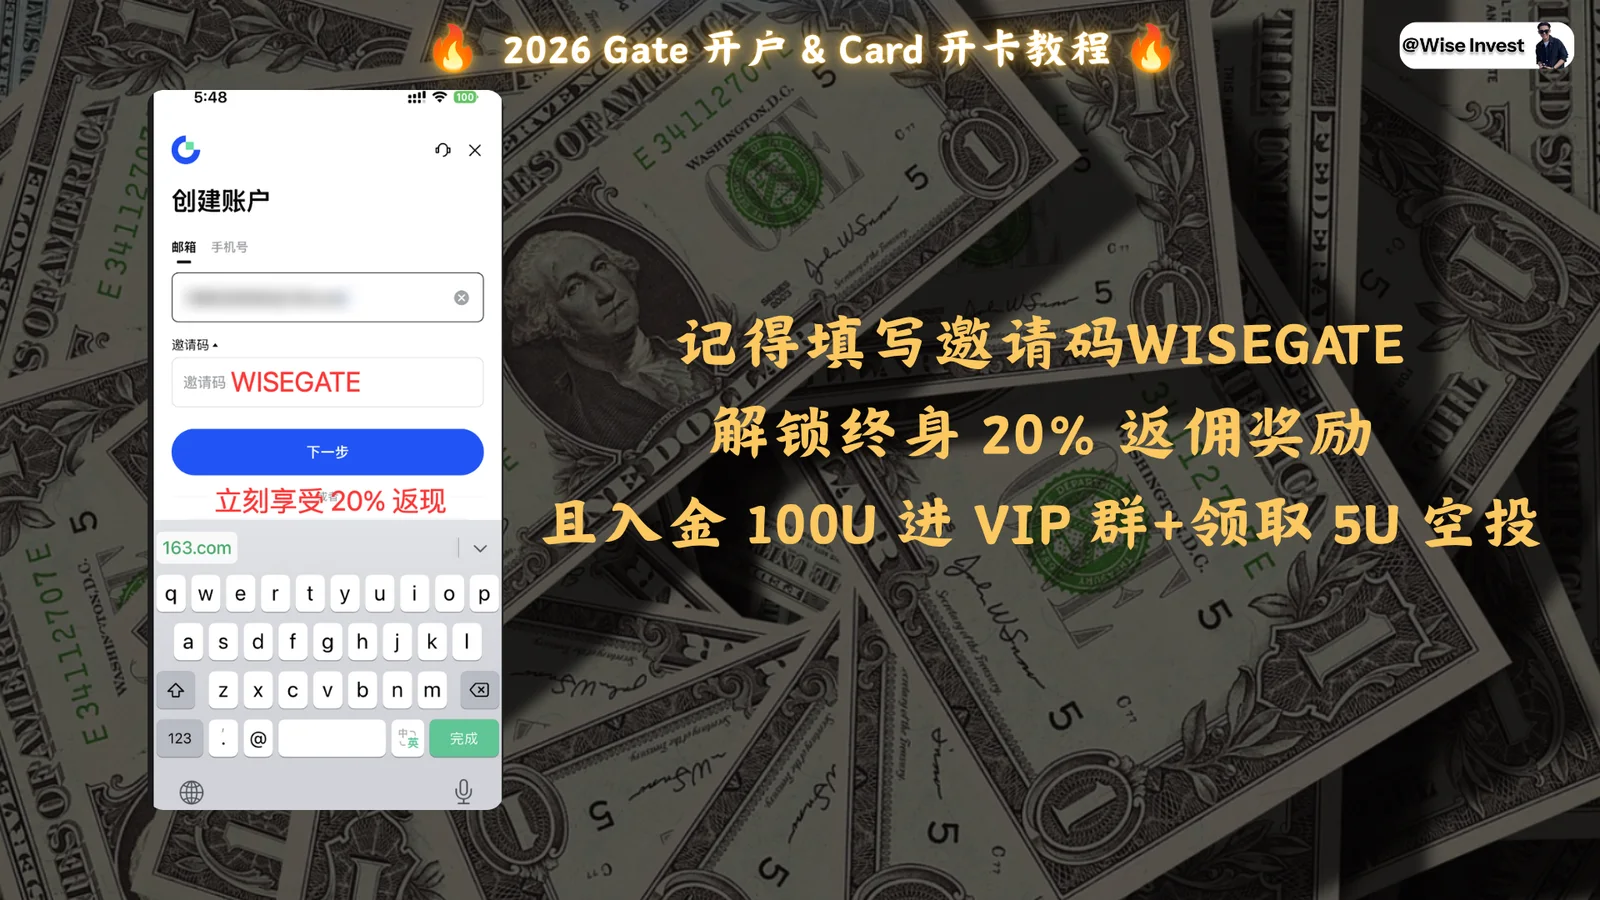
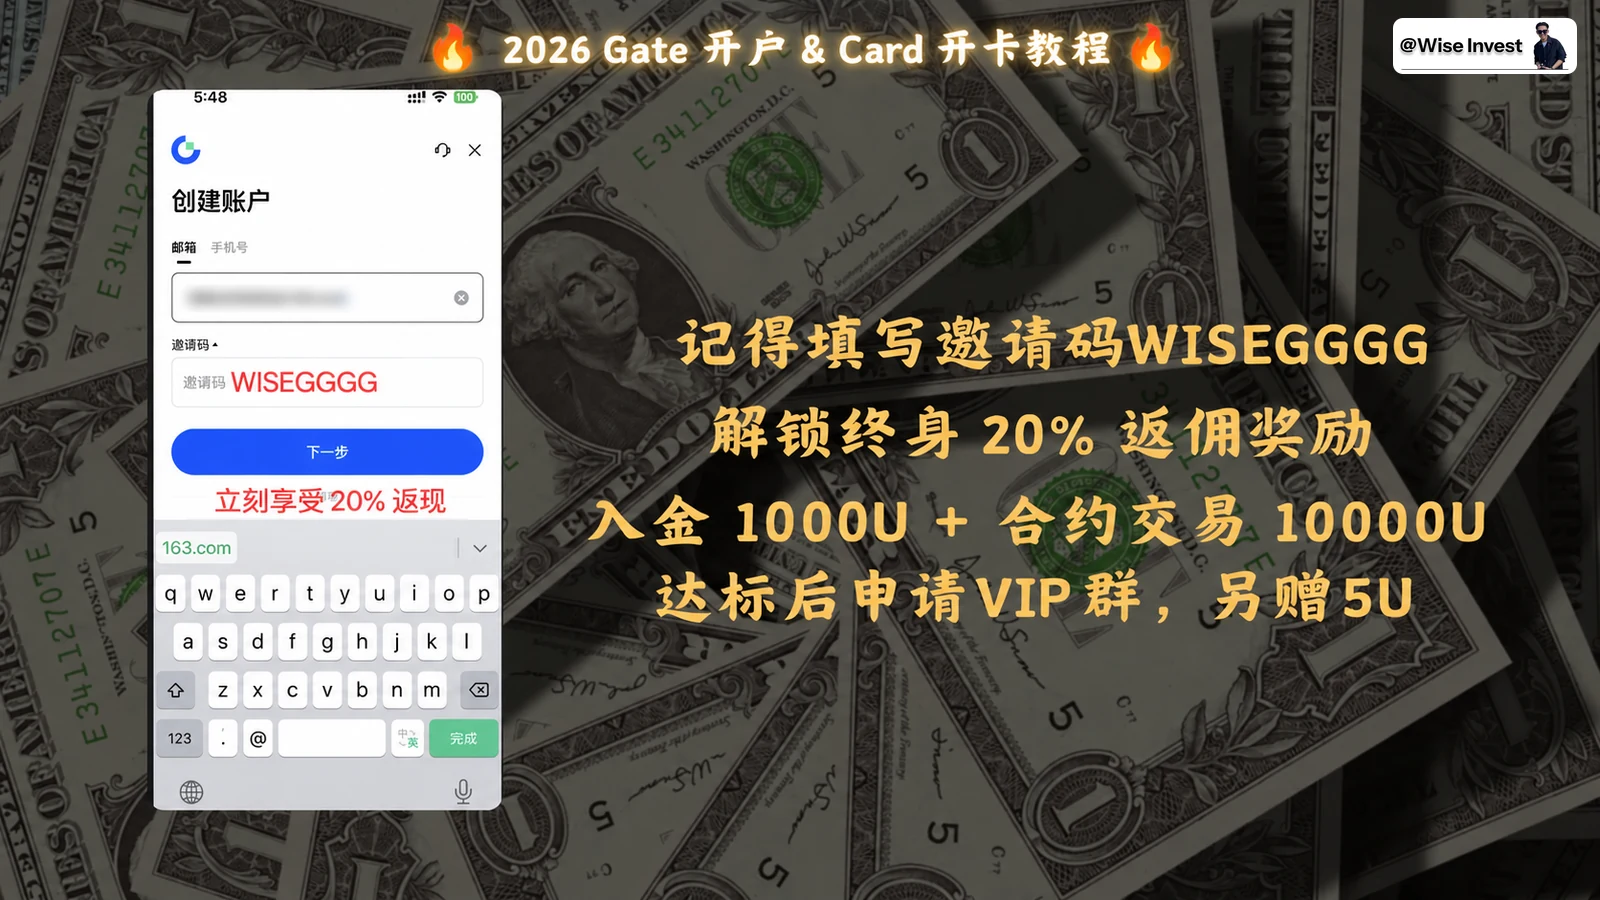
fix(gate): update referral code and tutorial entry points

diff --git a/lib/perks-data.ts b/lib/perks-data.ts
@@ -90,7 +90,7 @@ export const perks: Perk[] = [
     highlightValue: "20%",
     badge: "新上线",
     claimedCount: 560,
-    code: "WISEGATE",
+    code: "WISEGGGG",
     link: "https://www.wise-invest.org/articles/vcard/GUhygjYV",
     iconUrl: "https://www.gate.com",
     tutorialLink: "https://www.wise-invest.org/articles/vcard/GUhygjYV",
@@ -342,7 +342,7 @@ export const perks: Perk[] = [
     highlightValue: "Gate Card",
     badge: "新上线",
     claimedCount: 560,
-    code: "WISEGATE",
+    code: "WISEGGGG",
     link: "https://www.wise-invest.org/articles/vcard/GUhygjYV",
     iconUrl: "https://www.gate.com",
     tutorialLink: "https://www.wise-invest.org/articles/vcard/GUhygjYV",

diff --git a/app/perk/data.ts b/app/perk/data.ts
@@ -468,9 +468,10 @@ export const perkSections: Perks2Section[] = [
             benefit: "永久 20% 交易手续费返佣",
             benefitLabel: "返佣比例",
             highlightValue: "20%",
-            code: "WISEGATE",
-            registerLink: onlineArticle("/articles/vcard/GUhygjYV"),
-            tutorialLink: onlineArticle("/articles/vcard/GUhygjYV"),
+            code: "WISEGGGG",
+            registerLink: "/articles/vcard/GUhygjYV",
+            registerLabel: "查看教程",
+            tutorialLink: "/articles/vcard/GUhygjYV",
             recommendation: 4.6,
             recommendationText: "老牌交易所",
             badge: "新接入",

diff --git a/app/card/data.ts b/app/card/data.ts
@@ -602,7 +602,7 @@ export const virtualCardProducts: VirtualCardProduct[] = [
     issuer: "Gate",
     issuerUrl: "https://www.gate.com",
     iconUrl: "/images/perks/gate-card.jpg",
-    inviteCode: "WISEGATE",
+    inviteCode: "WISEGGGG",
     registerLink: "/articles/vcard/GUhygjYV",
     tutorialLink: "/articles/vcard/GUhygjYV",
     ratingLabel: "实测开卡",

diff --git a/lib/vip/partners.ts b/lib/vip/partners.ts
@@ -75,7 +75,7 @@ export const defaultWiseVipPartners = [
     name: "Gate",
     type: "EXCHANGE" as const,
     referralUrl: "https://www.wise-invest.org/articles/vcard/GUhygjYV",
-    referralCode: "WISEGATE",
+    referralCode: "WISEGGGG",
     vipEligible: true,
     vipPlusEligible: true,
     vipPlusVolumeThreshold: "50000",

diff --git a/content/articles/vcard/Gate/Gate.md b/content/articles/vcard/Gate/Gate.md
@@ -51,13 +51,13 @@ OK，交易所的基本情况我们介绍完了，接下来就不再讲理论了
 
 ![Gate 开户流程截图 1](/content/articles/vcard/Gate/1.webp)
 
-我们填写自己的邮箱或手机号，任选其一即可。这里请大家注意一下，在邀请码处可以输入“WISEGATE”。都是大写。
+我们填写自己的邮箱或手机号，任选其一即可。在注册页面展开“邀请码”，填写 **WISEGGGG**，注意全部大写，末尾是连续四个 G。提交前核对一次，避免漏填或填错。
 
-> 注册 Gate 交易所 账户 · 邀请码：**WISEGATE** · 福利：永久 20% 交易手续费返佣
+> 注册 Gate 交易所 账户 · 邀请码：**WISEGGGG** · 福利：永久 20% 交易手续费返佣
 
-![Gate 开户流程截图 2](/content/articles/vcard/Gate/2.webp)
+![Gate 开户流程截图 2：填写邀请码 WISEGGGG](/content/articles/vcard/Gate/2.webp?v=wisegggg)
 
-填写交易所邀请码 **WISEGATE** 后，可享**永久 20% 交易手续费返佣**。这项权益属于 Gate 交易所，与 Gate Card 的消费积分和卡片奖励分开计算。
+填写交易所邀请码 **WISEGGGG** 后，可享**永久 20% 交易手续费返佣**。这项权益属于 Gate 交易所，与 Gate Card 的消费积分和卡片奖励分开计算。
 那同时大家如果说注册了 Gate并且入金了 1000U、完成 10000U 合约交易之后，可以私信我加入我的 VIP 群，除了大家能够正常领取 Gate 相关的奖励之外，我个人也会额外为通过我邀请码开户的朋友赠送 5U 的现金奖励，直接打到大家的 Gate 账户中。
 所以说，如果大家看到此教程，在开户的时候可以顺手填写此邀请码，在领取奖励的同时，也可以加入我个人的 VIP 群。
 输入自己的登录密码，进来之后，系统会提示进行身份验证。我们选择居住国和国籍都是中国，证件类型选择身份证即可。
@@ -93,13 +93,13 @@ OK，我们在聊完了这个交易所注册之后，我们就来聊一聊 gate 
 
 ![Gate Card 开卡流程截图 8](/content/articles/vcard/Gate/8.webp)
 
-然后我们绑定自己的手机号码和邮箱地址，在开卡页面填写邀请码 **WISEGATE**，注意全部大写。可先复制下方邀请码，再填写其余信息并提交申请。
+然后我们绑定自己的手机号码和邮箱地址，在开卡页面填写邀请码 **WISEGGGG**，注意全部大写。可先复制下方邀请码，再填写其余信息并提交申请。
 
-> 申请 Gate Card · 邀请码：**WISEGATE**
+> 申请 Gate Card · 邀请码：**WISEGGGG**
 
 这个过程不会花费我们太长时间，大概 5 分钟即可审核通过。如图所示，我们即得到了我们的 gate Card
 
-![Gate Card 开卡流程截图 9](/content/articles/vcard/Gate/9.webp)
+![Gate Card 开卡流程截图 9：填写邀请码 WISEGGGG](/content/articles/vcard/Gate/9.webp?v=wisegggg)
 
 我这里给大家简单测试一下具体的消费。我在美团上购买了一个 96.6 人民币的 Get 卡产品，同时支付是 14.62 U。
 这笔扣款包含消费金额和相关费用，属于作者当时的交易记录。积分是否可抵扣、如何兑换及何时到期需看规则，不能直接等同现金，也不能据此认定每笔消费零损耗。
@@ -193,6 +193,6 @@ OK，我们在聊完了这个交易所注册之后，我们就来聊一聊 gate 
 
 ## 十、总结：开卡成功后，先验证费用与支付
 
-Gate 账户、Gate Card、消费积分和交易所返佣是不同安排。按本人资格如实申请后，先小额测试：**充值净到账 → 绑支付／Apple Pay 是否可用 → 账单与商户实付是否一致**，再决定是否作为常用支付工具。开卡时按页面提示填写邀请码 **WISEGATE**（以申请页为准）。还在选卡阶段，回对比枢纽：
+Gate 账户、Gate Card、消费积分和交易所返佣是不同安排。按本人资格如实申请后，先小额测试：**充值净到账 → 绑支付／Apple Pay 是否可用 → 账单与商户实付是否一致**，再决定是否作为常用支付工具。开卡时按页面提示填写邀请码 **WISEGGGG**（以申请页为准）。还在选卡阶段，回对比枢纽：
 
 [大陆现在还能办哪张 U 卡](/articles/vcard/ACGrkqnQ?series=crypto-tools){card}
